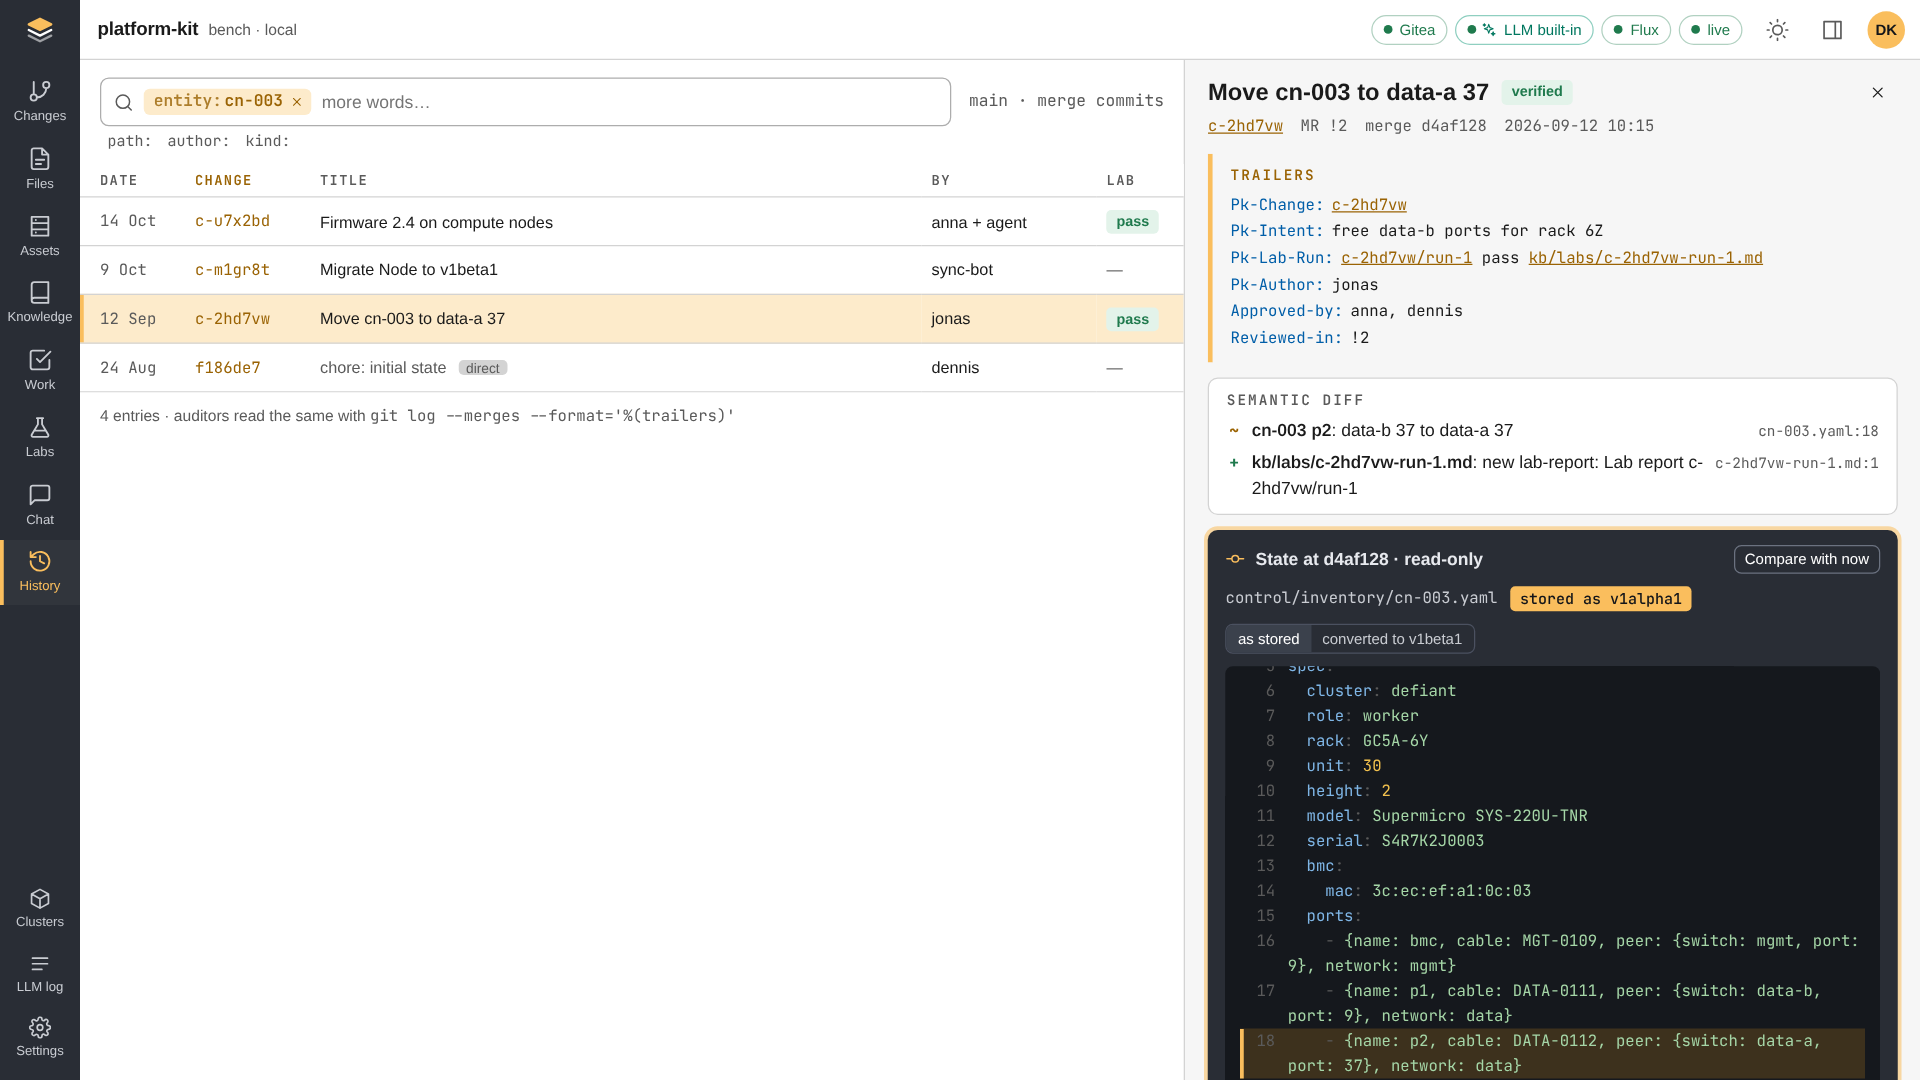
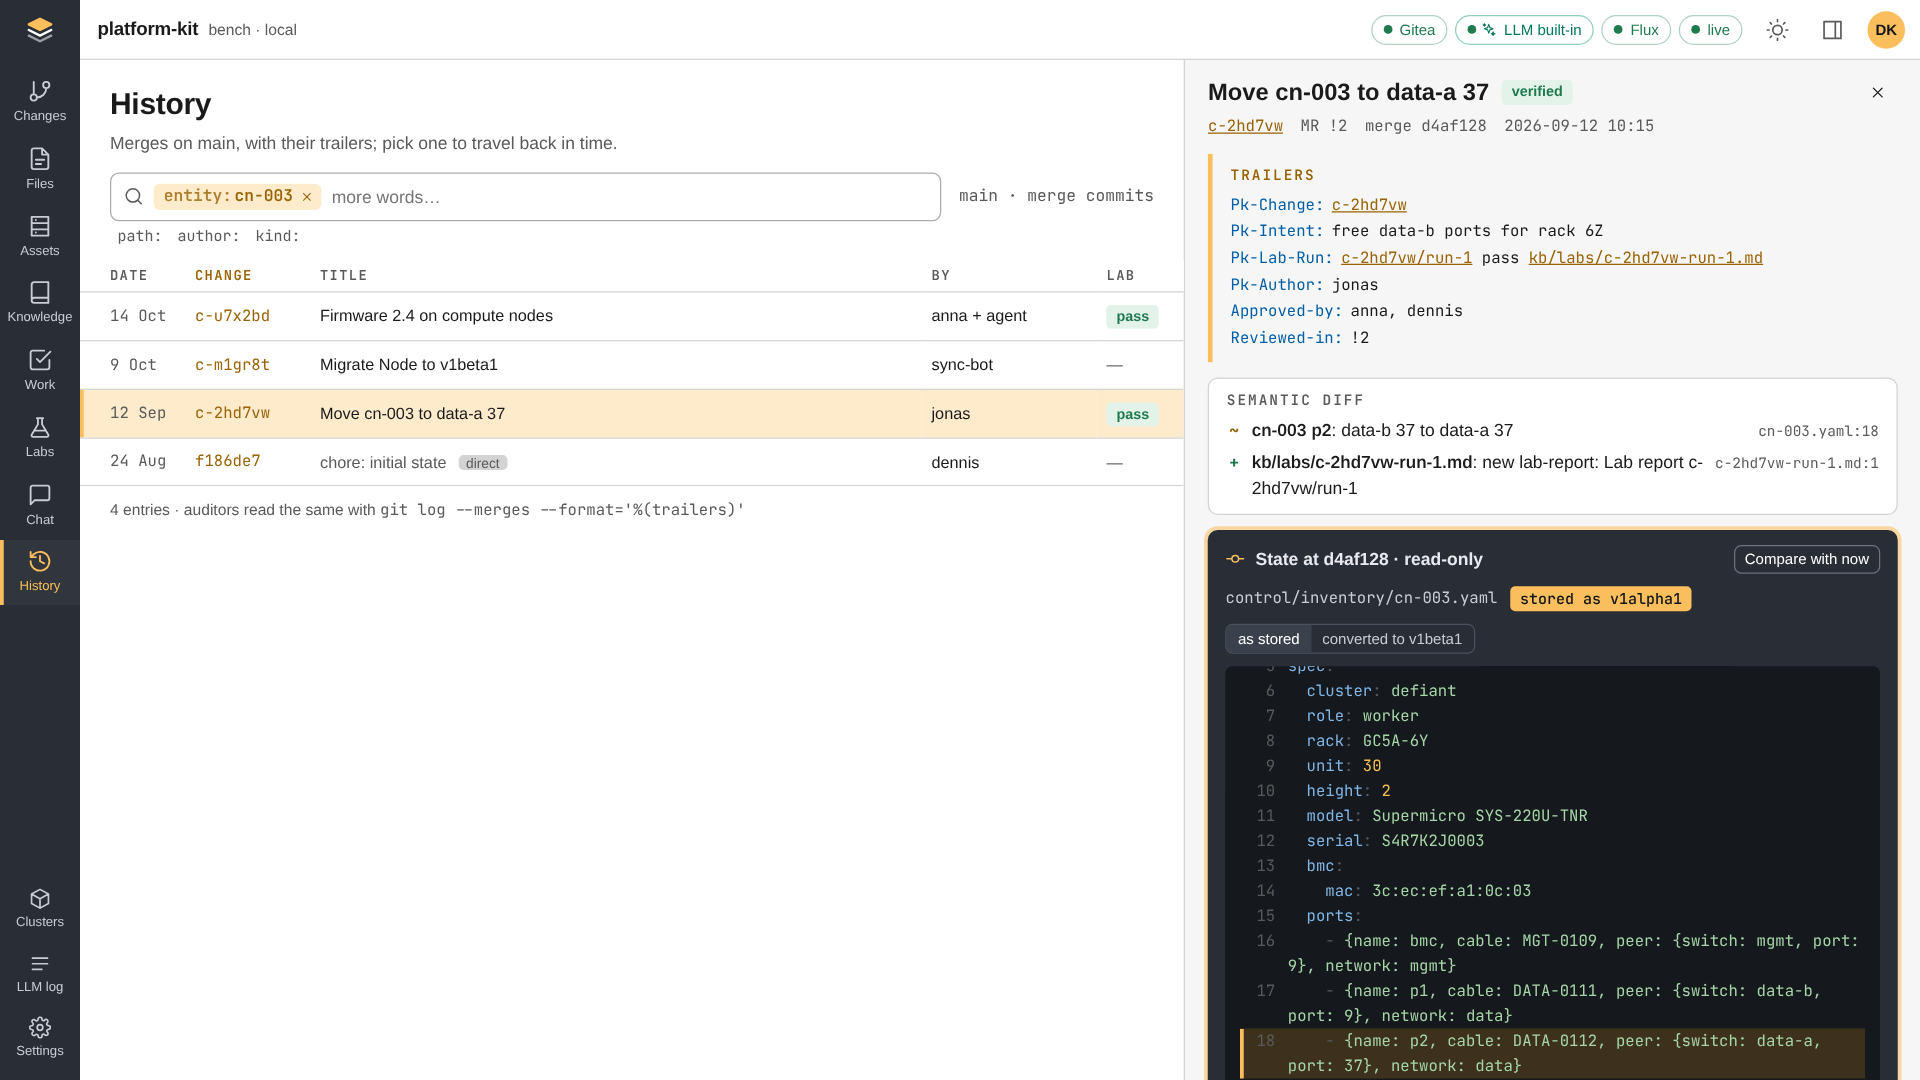
docs: match the demo script to the screen in 1.x and 3.x
- 1.1 MY RECENT MERGES; 1.3a quotes the rack page switch caption
- 1.2 the toast detail spans up to three lines
- 1.14 verified after about 15-20 s, with what to say meanwhile
- 2.3 the History title and lede; new History screenshot
- 3.2 the agent banner, the denial and the gates on screen
- 3.3 the steps stay open until the next answer
- 3.4 close a narrowing side panel first; what the opened entry shows

Changed region(s): [[0.0312, 0.0611, 0.625, 0.4889], [0.5625, 0.1528, 0.625, 0.2139], [0.4688, 0.1528, 0.5312, 0.2139]]

diff --git a/docs/demo.html b/docs/demo.html
@@ -167,7 +167,7 @@ echo '{"permissions":{"allow":["mcp__platform-kit"]}}' &gt; ~/pk-agent/.claude/s
 </ol>
 <h4>The audience sees</h4>
 <ul class="see">
-  <li>MY CHANGES: Cabling for GC5A-6Z <i>approved</i> c-31d0aa; Kernel args on control nodes <i>verified</i> c-19f4tb.</li>
+  <li>MY CHANGES: Cabling for GC5A-6Z <i>approved</i> c-31d0aa. MY RECENT MERGES: Kernel args on control nodes <i>verified</i> c-19f4tb.</li>
   <li>PUSHED BY OTHERS: BGP peers for org-a and org-b <i>lab failed</i> c-p4x8ma anna.</li>
   <li>WAITING FOR MY REVIEW: Bump podinfo to 6.9 <i>review</i> c-6m1pqd jonas. BOTS: Sync serials from asset DB <i>draft</i> c-h3sy7n.</li>
   <li>Main page: "4 open: 1 mine, 1 waiting for my review", the button <span class="ui">New change</span> and four tiles: OPEN CHANGES 4 "1 mine · 1 review · 1 other · 1 bot", WAITING FOR MY REVIEW 1, CHANGE LABS "1 failed" (c-p4x8ma), CLUSTERS "3/3 healthy". Then CLUSTERS (defiant, pegasus, phoenix <i>healthy</i>) and RECENTLY MERGED ON MAIN. Footer: <code>main 382f3ac c-19f4tb</code> (on a fresh seed).</li>
@@ -194,7 +194,7 @@ echo '{"permissions":{"allow":["mcp__platform-kit"]}}' &gt; ~/pk-agent/.claude/s
 <ul class="see">
   <li>The dialog text: "Makes a worktree, the branch change/c-······-title and .pk/changes/c-······.yaml."</li>
   <li>The files view of the new change opens with <code>.pk/changes/&lt;id&gt;.yaml</code> (id, title, intent, author dennis, target main, workItems w-114).</li>
-  <li>A toast at the bottom right: "Change &lt;id&gt; created." and, on a second line, "Branch change/&lt;id&gt;-add-cn-035-and-cn-036-to-defiant, worktree /data/worktrees/&lt;id&gt;." The top bar shows the change with <i>draft</i>.</li>
+  <li>A toast at the bottom right: "Change &lt;id&gt; created." and, under it in up to three lines, "Branch change/&lt;id&gt;-add-cn-035-and-cn-036-to-defiant, worktree /data/worktrees/&lt;id&gt;." The top bar shows the change with <i>draft</i>.</li>
 </ul>
 <div class="fallback"><h4>If it fails</h4>
 <pre><code>pk change new "Add cn-035 and cn-036 to defiant" --intent "2 compute nodes for tenants, in GC5A-6Z U6 and U8" --work-item w-114</code></pre>
@@ -259,7 +259,7 @@ pk edit cn-035 --change $CH --set 'spec.ports[2].peer.port=38'</code></pre></div
 </ol>
 <h4>The audience sees</h4>
 <ul class="see">
-  <li>The rack page with the switch "main | &lt;id&gt;" and "Highlights against the base of &lt;id&gt;". In the rack picture, cn-035 in U6–7 is green, with "!" (a problem) and "+" (new in the change). "IN &lt;ID&gt; added cn-035 U6–7 · worker", PROBLEMS "cn-035 port data-a 37 in use by cn-003".</li>
+  <li>The rack page with the switch "main | &lt;id&gt;" and "Changes in &lt;id&gt; are highlighted against main.". In the rack picture, cn-035 in U6–7 is green, with "!" (a problem) and "+" (new in the change). "IN &lt;ID&gt; added cn-035 U6–7 · worker", PROBLEMS "cn-035 port data-a 37 in use by cn-003".</li>
   <li>cn-035 "Node v1beta1" with the badge "new in &lt;id&gt;" and the red line "port data-a 37 in use by cn-003". INTENT, HARDWARE FACTS with the owner of each field (<i>intent</i>, <i>asset DB</i>, <i>derived</i>). PORTS AND CABLES "1 problem": p2 DATA-0202 data-a 37 "port data-a 37 in use by cn-003".</li>
   <li>SEMANTIC DIFF · &lt;ID&gt;: "+ cn-035: new compute node in GC5A-6Z, U6".</li>
   <li>With <span class="ui">main</span>: a blue note "cn-035 is new in this change; it is not on main yet." with a link back to the change. The node exists only in the change.</li>
@@ -533,13 +533,13 @@ pk demo demo-approve --as jonas --change-id $CH</code></pre></div>
 <h4>Do</h4>
 <ol>
   <li>Click <span class="ui">Merge</span>. Read the dialog. Click <span class="ui">Merge</span>.</li>
-  <li>Wait about 10 s. Point to the ROLLOUT card and the lifecycle.</li>
+  <li>Wait about 15–20 s: Flux polls every few seconds, then the 4 Kustomizations get ready. Meanwhile, read the TRAILERS in the Merged card (under MERGE COMMIT ON MAIN) aloud. Then point to the ROLLOUT card and the lifecycle.</li>
 </ol>
 <h4>The audience sees</h4>
 <ul class="see">
   <li>The dialog "Merge &lt;id&gt;" with <code>Merge change &lt;id&gt;: Add cn-035 and cn-036 to defiant (!13)</code>, the intent, <code>Pk-Lab-Run: &lt;id&gt;/run-2 pass …</code>, <code>Pk-Work-Item: w-114</code>, <code>Approved-by: anna, jonas</code>, <code>Reviewed-in: !13</code>.</li>
   <li>State <i>merged</i>, ROLLOUT "Flux is applying" and "Merged into main as &lt;sha&gt;", lifecycle "deployed 0 of 1". The defiant box (canary) lists the steps: "Flux fetched main@&lt;sha&gt;", "Applied 23 objects", "Kustomizations 0 of 4 ready · health checks running", "Verified". Each step gets a check mark when it is done.</li>
-  <li>After about 10 s: state <i>verified</i>, ROLLOUT "verified", "Kustomizations 4 of 4 ready", "Verified: health checks pass", lifecycle "deployed 1 of 1", "verified 1 of 1".</li>
+  <li>After about 15–20 s: state <i>verified</i>, ROLLOUT "verified", "Kustomizations 4 of 4 ready", "Verified: health checks pass", lifecycle "deployed 1 of 1", "verified 1 of 1".</li>
 </ul>
 <p class="muted">Tell: an auditor reads all of it with <code>git log --merges --format='%(trailers)'</code>.</p>
 <div class="fallback"><h4>If it fails</h4>
@@ -619,7 +619,7 @@ pk change list          # merged changes: pk changes get-change $CH</code></pre>
 </ol>
 <h4>The audience sees</h4>
 <ul class="see">
-  <li>One row per change, newest first: the demo change and c-31d0aa on top, then c-19f4tb, c-0b9cfe, c-u7x2bd "anna + agent", c-m1gr8t, c-b7gl4s <i>break-glass</i> with lab <i>alert</i>, c-a5e3vk, c-2hd7vw, c-9kq1mf, f186de7 "chore: initial state". "auditors read the same with git log --merges --format='%(trailers)'".</li>
+  <li>The title "History" and "Merges on main, with their trailers; pick one to travel back in time." Then one row per change, newest first: the demo change and c-31d0aa on top, then c-19f4tb, c-0b9cfe, c-u7x2bd "anna + agent", c-m1gr8t, c-b7gl4s <i>break-glass</i> with lab <i>alert</i>, c-a5e3vk, c-2hd7vw, c-9kq1mf, f186de7 "chore: initial state". "auditors read the same with git log --merges --format='%(trailers)'".</li>
   <li>With the filter: 4 entries (c-u7x2bd, c-m1gr8t, c-2hd7vw, f186de7).</li>
   <li>c-2hd7vw: <i>verified</i>, MR !2, merge <code>d4af128</code> (slide 12); TRAILERS (Pk-Intent "free data-b ports for rack 6Z", Pk-Lab-Run, Approved-by "anna, dennis"); SEMANTIC DIFF "cn-003 p2: data-b 37 to data-a 37".</li>
   <li>"State at d4af128 · read-only", "stored as v1alpha1": the old flat fields <code>rack</code>, <code>unit</code>, <code>height</code>; the converted view shows <code>location</code>.</li>
@@ -666,9 +666,9 @@ pk history get-history-entry c-2hd7vw</code></pre></div>
 <h4>The audience sees</h4>
 <ul class="see">
   <li>The tool calls in the terminal: <code>pk_change_new</code>, <code>pk_kind_schema</code> or <code>pk_file_new</code>, <code>pk_file_write</code>, <code>pk_commit</code>, <code>pk_lab_run</code>, <code>pk_lab_status</code>, <code>pk_change_approve</code>. The agent can read other files first (for example <code>cn-036.yaml</code>). No permission prompts.</li>
-  <li>The browser follows the agent: it opens the new change "Add cn-037 to defiant" (the title from the prompt; if the agent uses other words, use its title in step 3.3), then the lab. The commits have the author dennis-agent and the trailers <code>Pk-Agent: dennis-agent</code>, <code>Pk-On-Behalf-Of: dennis</code>; the commit list marks them <i>Pk-Agent</i>.</li>
+  <li>The browser follows the agent: it opens the new change "Add cn-037 to defiant" (the title from the prompt; if the agent uses other words, use its title in step 3.3), then the lab. A teal banner on top: "dennis/agent via MCP on 127.0.0.1", with <span class="ui">Following</span> and <span class="ui">Pause</span>; the change shows "dennis/agent works here". The commits have the author dennis-agent and the trailers <code>Pk-Agent: dennis-agent</code>, <code>Pk-On-Behalf-Of: dennis</code>; the commit list marks them <i>Pk-Agent</i>.</li>
   <li>The lab fails: nodes Ready 1 of 1, BGP "0 peers up", checks "4 of 6", "cn-037: no BGP peering policy selects it", "Lab gate of control/inventory/** +1 not met". The check is real: rack-6z does not select cn-037.</li>
-  <li><code>pk_change_approve</code>: "denied: agents never approve or merge".</li>
+  <li><code>pk_change_approve</code>: "denied: agents never approve or merge". The banner says "Agent stopped: approving needs a human". The gates show "Approvals 0 of 2" and the OVERLAP card "Approve and merge stay with people".</li>
   <li>The Agents page shows "Last call just now · pk_change_approve". The rail shows the change with "dennis + agent"; the change page shows "author dennis + dennis-agent".</li>
 </ul>
 <p class="muted">An agent can try to fix the BGP policy itself. The prompt says "Change only the node file", so that the chat can do it in step 3.3. If the agent changed the policy anyway, skip the third question in step 3.3.</p>
@@ -695,7 +695,7 @@ pk history get-history-entry c-2hd7vw</code></pre></div>
 </ol>
 <h4>The audience sees</h4>
 <ul class="see">
-  <li>While an answer comes: "pk assistant" with each tool step as it runs (for example "history cn-003 → 4 merges", "read 4 merge diffs → match c-2hd7vw"). When the answer is there, the steps fold into "Used 2 tools" (click it to open them again).</li>
+  <li>While an answer comes: "pk assistant" with each tool step as it runs (for example "history cn-003 → 4 merges", "read 4 merge diffs → match c-2hd7vw"). When the answer is there, the steps stay open under "Used 2 tools"; they fold when the next answer comes (click "Used 2 tools" to open them again).</li>
   <li>Answer 1: "c-2hd7vw moved cn-003 p2 from data-b 37 to data-a 37, to free data-b ports for rack 6Z. Approved by anna and dennis. Merged 2026-09-12, author jonas." Sources: trailer c-2hd7vw, MR !2, and the c-2hd7vw merge in history.</li>
   <li>Answer 2 ("Used 1 tool", on a yellow card, model tag <i>built-in · secret guard</i>): "I cannot see it. Secret fields are removed before each call." with the source <code>helmrelease.yaml</code>.</li>
   <li>Answer 3 ("Used 4 tools": find BGP policies, read bgp-rack-6z.yaml, check inventory cn-037, suggest bgp-rack-6z.yaml → +1 line): "I suggest 1 line in bgp-rack-6z.yaml: it adds cn-037 to rack-6z, so cn-037 gets a BGP session. Review the diff below, then accept or reject it." Then the card "Suggested by chat", "Edit in bgp-rack-6z.yaml: Add cn-037 to the BGP policy rack-6z" with the diff <code>+ - cn-037</code>, <span class="ui">Accept</span>, <span class="ui">Reject</span> and "Suggestions never commit, run labs or mark ready on their own."</li>
@@ -716,14 +716,15 @@ pk lab run $C2 --wait</code></pre></div>
 <div class="body">
 <h4>Do</h4>
 <ol>
+  <li>If the side panel from step 3.3 is still open and makes the page narrow (on a small screen or a half-width browser), close it first: click × in the panel.</li>
   <li>Click <span class="ui">LLM log</span>.</li>
   <li>Click the chat entry <span class="ui">What is the hubble UI token?</span>. Optional: click <span class="ui">Export</span>.</li>
 </ol>
 <h4>The audience sees</h4>
 <ul class="see">
-  <li>"Every model call: the prompt as sent (secrets already removed), the answer, its sources and your rating." Filters with counts for each kind of call that is in the log (all, chat, advisor, commit message, MCP), and the thumbs up and thumbs down counts (1 thumbs up from step 1.9).</li>
+  <li>"Every model call: the prompt as sent (secrets already removed), the answer, its sources and your rating. Chat, advisors, commit messages and agents over MCP all land here." Filters with counts for each kind of call that is in the log (all, chat, advisor, commit message, MCP), and the thumbs up and thumbs down counts (1 thumbs up from step 1.9).</li>
   <li>Each entry with its kind, the question, the start of the answer, a lock with the number of removed values, the model tag (<i>built-in</i>, or <i>built-in · secret guard</i> for the token question, without a model endpoint) and the user.</li>
-  <li>The opened entry: a red box "2 values removed before the call: hubble.ui.auth.token, sops (in helmrelease.yaml)". The prompt scrolls to the first removed value; each one shows as a lock and <code>[redacted]</code>.</li>
+  <li>The opened entry, from its header down, on one screen: a red box "2 values removed before the call: hubble.ui.auth.token, sops (in helmrelease.yaml)", next to it the ANSWER "I cannot see it. Secret fields are removed before each call." with the source <code>helmrelease.yaml</code>. Only the prompt box scrolls, to the removed values (<code>token:</code> and <code>sops:</code> at its end); each one shows as a lock and <code>[redacted]</code>.</li>
 </ul>
 <div class="fallback"><h4>If it fails</h4><p>CLI: <code>pk llm list-llm-log</code>.</p></div>
 </div>
